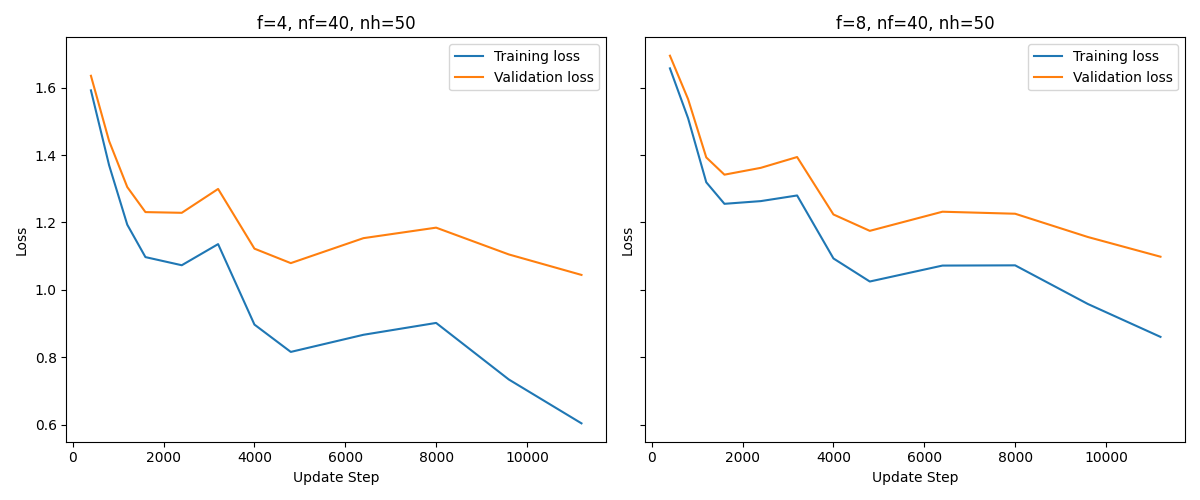
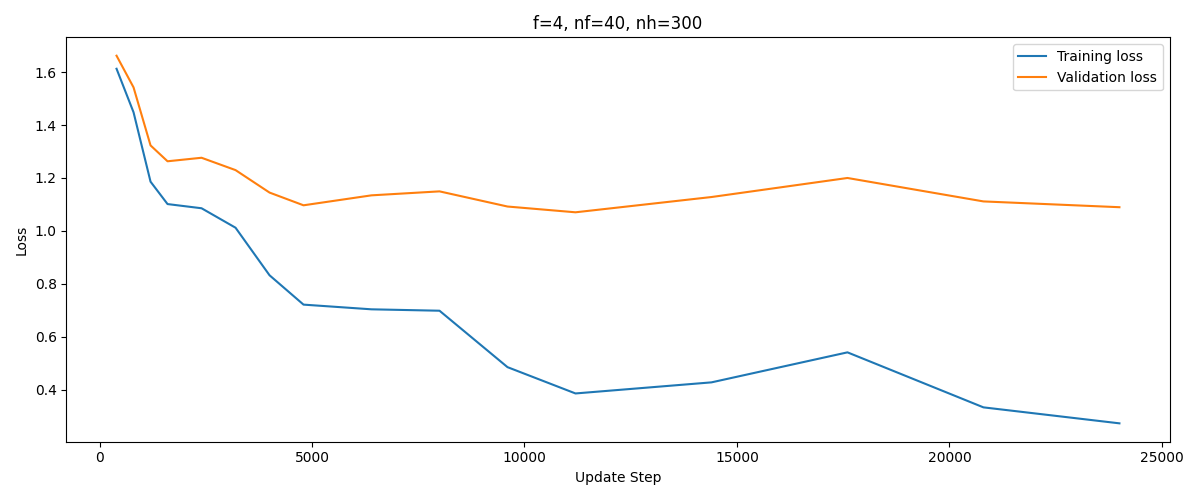
finsh

diff --git a/Assignment 3/Assignment3.py b/Assignment 3/Assignment3.py
@@ -137,7 +137,7 @@ def compute_accuracy(P, y):
 
     return accuracy
 
-def backward_pass(Y, fp_data, MX, network, lam):
+def backward_pass(Y, fp_data, MX, network, lam, label_eps):
     Fs_flat = network['Fs_flat']
     W1 = network['W'][0]
     W2 = network['W'][1]
@@ -155,7 +155,12 @@ def backward_pass(Y, fp_data, MX, network, lam):
     grads['b'] = [None] * 2
     grads['b_conv'] = None
 
-    G = -(Y - P)
+    if label_eps> 0:
+        Y_smooth = label_smoothing(Y, label_eps)
+    else:
+        Y_smooth= Y
+
+    G = -(Y_smooth - P)
 
     # outpute layer
     grads['W'][1] = np.dot(G, x1.T) / n
@@ -367,6 +372,8 @@ def mini_batch_GD_increasing(MX, Y, y, MX_val, y_val, GD_params, init_net, lam, 
     curr_n_s = GD_params['n_s']
     n_cycles = GD_params['n_cycles']
 
+    label_eps = GD_params['label_eps']
+
     train_costs = []
     val_costs = []
     train_losses = []
@@ -396,7 +403,7 @@ def mini_batch_GD_increasing(MX, Y, y, MX_val, y_val, GD_params, init_net, lam, 
             etas.append(eta)
 
             fp_data = forward_pass(MXbatch, trained_net)
-            grads = backward_pass(Ybatch, fp_data, MXbatch, trained_net, lam)
+            grads = backward_pass(Ybatch, fp_data, MXbatch, trained_net, lam, label_eps)
 
 
             for i in range(len(trained_net['W'])):
@@ -435,7 +442,7 @@ def mini_batch_GD_increasing(MX, Y, y, MX_val, y_val, GD_params, init_net, lam, 
 
                 step_vec.append(t)
 
-                # print(f"step {t}, training cost: {train_cost:.6f}")
+                print(f"step {t}, training cost: {train_cost:.6f}")
 
             if cycle_t >= 2 * curr_n_s:
                 cycle_count += 1
@@ -450,6 +457,10 @@ def compute_accuracy(P, y):
     accuracy = np.mean(y_pred == y)
 
     return accuracy
+
+def label_smoothing(Y, epsilon):
+    K = Y.shape[0]
+    return (1 - epsilon) * Y + (epsilon / (K - 1)) * (1 - Y)
 
 def main_exercise1():
     debug_file = 'Assignment 3\debug_info.npz'
@@ -647,19 +658,19 @@ def main_exercise3_increasing():
     X_test = normalize(X_test, X_mean, X_std)
 
     architectures = [
-        {'f': 4,  'nf': 40,  'nh': 50},
-        {'f': 8,  'nf': 40,  'nh': 50},
+        {'f': 4,  'nf': 40,  'nh': 300},
     ]
 
     GD_params = {
-        'n_cycles': 3,
+        'n_cycles': 4,
         'n_s': 800,
         'eta_min': 1e-5,
         'eta_max': 1e-1,
-        'n_batch': 100
+        'n_batch': 100,
+        'label_eps': 0.1
     }
 
-    lam = 0.003
+    lam = 0.002
     K = 10
 
     curves = {}
